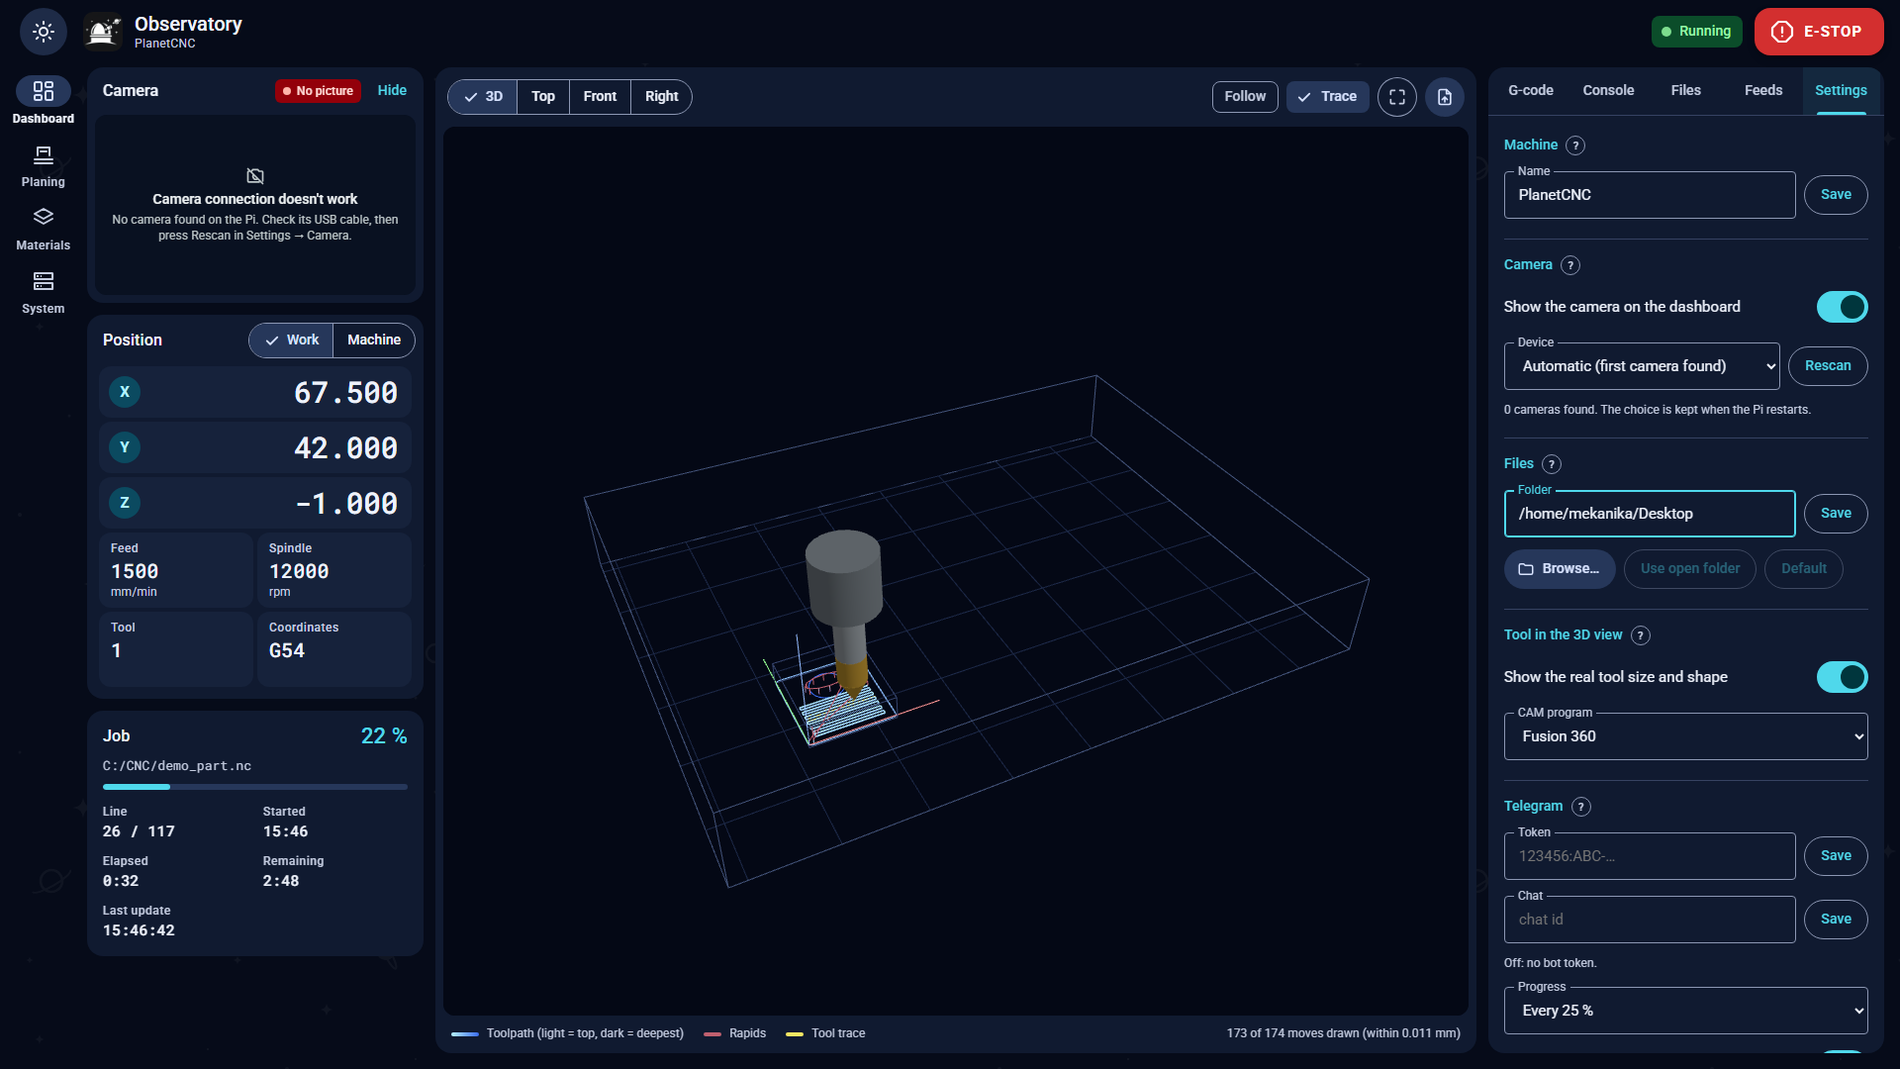
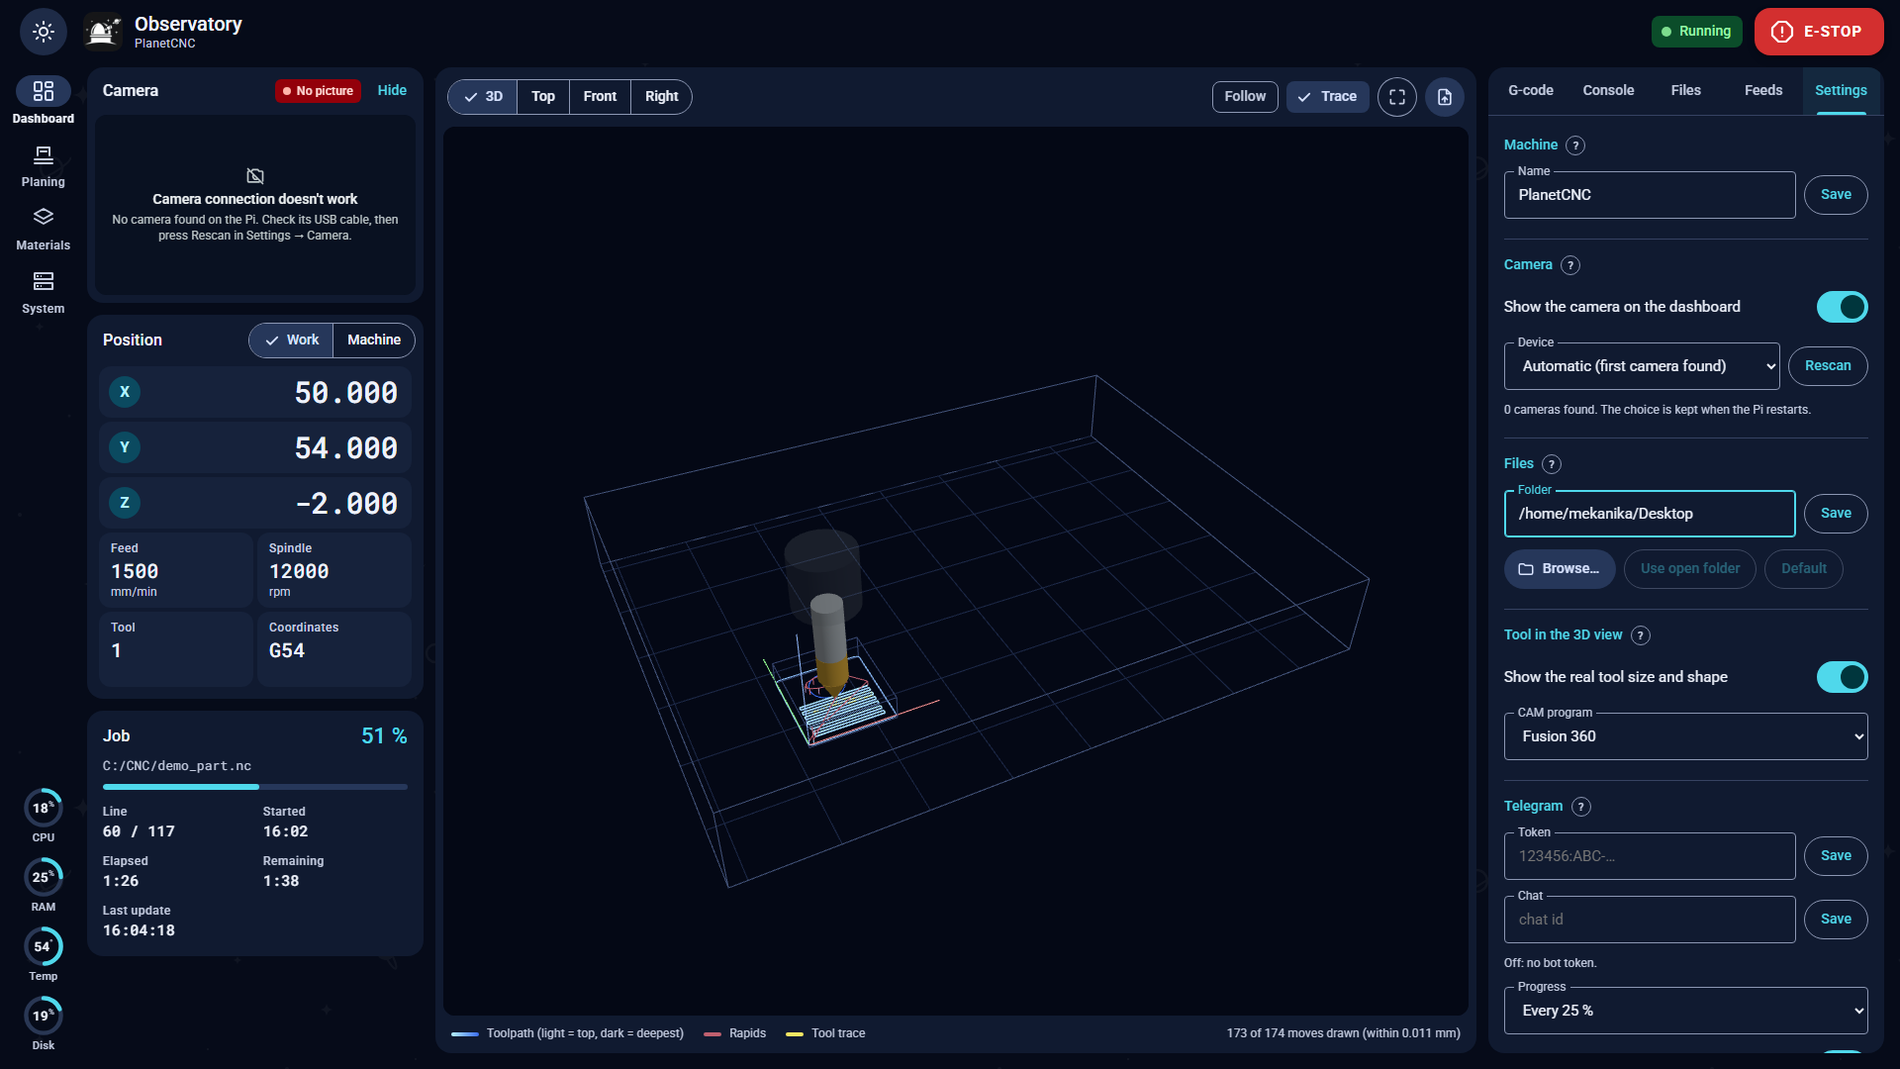
Raspberry Pi health as rings in the menu, on every page
CPU, memory, temperature and disk are four rings at the bottom of the
menu, so they are always in view without scrolling, on every page. They
turn amber or red at the same levels as before (hover for the details);
a lightning mark shows under-voltage or throttling; a click opens the
System page. topbar-boot.js draws them from the last values, so they
don't blink when moving between pages; nav.js fills them in.

On a phone, where the menu is the bar at the bottom, the dashboard's
Raspberry Pi card shows the same rings; on larger screens that card is
gone. The demo shows made-up Pi values, so the rings can be seen off a
Pi. README and screenshots updated.

diff --git a/web/nav.js b/web/nav.js
@@ -1,8 +1,10 @@
-// The top bar's live parts, the same on every page. The menu itself is drawn by topbar-boot.js
-// while the page loads; this keeps the update dot and the machine name current, and remembers
-// what the top bar shows (sessionStorage) so the next page starts with the same picture.
+// The top bar's and the menu's live parts, the same on every page. The menu itself is drawn by
+// topbar-boot.js while the page loads; this keeps the update dot, the machine name and the
+// Raspberry Pi's health rings current, and remembers what they show (sessionStorage) so the next
+// page starts with the same picture.
 
 const nav = document.getElementById('pagenav');
+const GB = 1024 ** 3;
 
 /** Remember part of the top bar for the next page (see topbar-boot.js). */
 export function saveTopbar(patch) {
@@ -12,12 +14,76 @@ export function saveTopbar(patch) {
   } catch { /* no storage: the next page just starts plain */ }
 }
 
-/** Show on the System item whether updates are waiting, and the machine's name (from /api/state). */
+/** The Pi's health (state.system) as rings: CPU, memory, temperature, disk, each with the level
+ *  it warns at (amber) and at which it is bad (red), and the power flags from the Pi's firmware. */
+export function piHealth(sys) {
+  if (!sys) return null;
+  const ring = (key, label, frac, value, unit, tip, warnAt, errAt, warnWord, errWord) => {
+    if (frac == null || Number.isNaN(frac)) return null;
+    const level = frac >= errAt ? 'err' : frac >= warnAt ? 'warn' : '';
+    return { key, label, frac, value, unit, level, tip: tip + (level ? ` – ${level === 'err' ? errWord : warnWord}` : '') };
+  };
+  const gb = (used, total) => `${(used / GB).toFixed(1)} of ${(total / GB).toFixed(1)} GB`;
+  const gauges = [
+    sys.cpu == null ? null
+      : ring('cpu', 'CPU', sys.cpu / 100, Math.round(sys.cpu), '%', `CPU ${Math.round(sys.cpu)} %`, 0.8, 0.95, 'busy', 'busy'),
+    !sys.mem_total ? null
+      : ring('mem', 'RAM', sys.mem_used / sys.mem_total, Math.round(100 * sys.mem_used / sys.mem_total), '%',
+        `Memory ${gb(sys.mem_used, sys.mem_total)}`, 0.85, 0.95, 'high', 'full'),
+    // The ring spans 20–90 °C; the Pi slows itself down from about 80 °C.
+    sys.temp == null ? null
+      : ring('temp', 'Temp', (sys.temp - 20) / 70, Math.round(sys.temp), '°', `Temperature ${Math.round(sys.temp)} °C`,
+        (70 - 20) / 70, (80 - 20) / 70, 'warm', 'hot'),
+    !sys.disk_total ? null
+      : ring('disk', 'Disk', sys.disk_used / sys.disk_total, Math.round(100 * sys.disk_used / sys.disk_total), '%',
+        `Disk ${gb(sys.disk_used, sys.disk_total)}`, 0.85, 0.95, 'high', 'full'),
+  ].filter(Boolean);
+  // vcgencmd get_throttled bits: 0 under-voltage, 1 frequency capped, 2 throttled, 3 soft temp limit;
+  // bits 16-19 = the same "has happened since boot".
+  const t = sys.throttled;
+  const power = t == null ? null
+    : t & 0x1 ? { level: 'err', text: 'Under-voltage!' }
+    : t & 0x6 ? { level: 'warn', text: 'Throttled' }
+    : t & 0x8 ? { level: 'warn', text: 'Temperature limit' }
+    : t & 0x10000 ? { level: 'warn', text: 'Under-voltage since boot' }
+    : t & 0xE0000 ? { level: 'warn', text: 'Throttled since boot' }
+    : { level: '', text: 'Power OK' };
+  let up = '';
+  if (sys.uptime != null) {
+    const d = Math.floor(sys.uptime / 86400), h = Math.floor((sys.uptime % 86400) / 3600), m = Math.floor((sys.uptime % 3600) / 60);
+    up = 'Up ' + (d ? `${d} d ${h} h` : h ? `${h} h ${m} min` : `${m} min`);
+  }
+  return { gauges, power, up, throttled: t };
+}
+
+/** The Pi rings everywhere they are, and the dashboard's Pi card (shown on a phone only). */
+function renderPi(pi) {
+  window.piGauges?.(pi);
+  const card = document.getElementById('sys');
+  if (card) {
+    card.hidden = !pi;
+    if (pi) {
+      document.getElementById('sysUptime').textContent = pi.up;
+      const power = document.getElementById('sysPower');
+      power.hidden = !pi.power;
+      if (pi.power) {
+        power.dataset.level = pi.power.level;
+        power.textContent = pi.power.text;
+        power.title = 'vcgencmd get_throttled = 0x' + pi.throttled.toString(16);
+      }
+    }
+  }
+  saveTopbar({ pi });
+}
+
+/** Show on the System item whether updates are waiting, the machine's name and the Pi's health
+ *  (from /api/state). */
 export function navOnState(s) {
   if (s?.machine_name) {
     const el = document.getElementById('machineName');
     if (el) el.textContent = s.machine_name;
   }
+  if (s && 'system' in s) renderPi(piHealth(s.system));
   const link = nav?.querySelector('[data-nav=system]');
   if (!link || !s) return;
   const appN = s.update?.behind || 0, osN = s.os_updates || 0;
@@ -25,13 +91,13 @@ export function navOnState(s) {
   const parts = [];
   if (appN) parts.push(`app update available (${appN} change${appN === 1 ? '' : 's'})`);
   if (osN) parts.push(`${osN} OS package update${osN === 1 ? '' : 's'}`);
-  link.title = 'Versions, updates, reboot' + (parts.length ? ' – ' + parts.join(', ') : '');
+  link.title = 'Versions, updates, the Raspberry Pi' + (parts.length ? ' – ' + parts.join(', ') : '');
   saveTopbar({ dot: !!(appN || osN), ...(s.machine_name ? { name: s.machine_name } : {}) });
 }
 
 /** For pages without the dashboard's live connection: fetch the machine state every second
  *  (every 5 s while the page is hidden) and pass it on; an empty state when the server is
- *  unreachable, so the status shows OFFLINE and the E-stop can't be pressed from here. */
+ *  unreachable, so the status shows Offline and the E-stop can't be pressed from here. */
 export function followState(onState, page) {
   const tick = async () => {
     let s = {};

diff --git a/web/style.css b/web/style.css
@@ -364,17 +364,30 @@ input.bad { border-color: var(--md-error) !important; box-shadow: inset 0 0 0 1p
 .sys-power::before { content: ""; width: 8px; height: 8px; border-radius: 50%; background: var(--md-success); }
 .sys-power[data-level="warn"]::before { background: var(--md-warning); }
 .sys-power[data-level="err"]::before { background: var(--md-error); }
-.sys-grid { display: grid; grid-template-columns: 1fr 1fr; gap: 12px 20px; }
-.sys-row { display: grid; grid-template-columns: auto 1fr; gap: 6px 6px; align-items: baseline; font-size: 12px; line-height: 16px; min-width: 0; }
-.sys-row .lbl { font-weight: 500; color: var(--md-on-surface-variant); }
-.sys-row .v { font: 500 12px var(--mono); text-align: right; white-space: nowrap; overflow: hidden; text-overflow: ellipsis; font-variant-numeric: tabular-nums; }
-.sys-row .meter { grid-column: 1 / -1; }
-.meter { height: 4px; border-radius: 2px; background: var(--md-surface-container-highest); overflow: hidden; }
-.meter i { display: block; height: 100%; width: 0; border-radius: 2px; background: var(--md-primary); transition: width .4s; }
-.sys-row[data-level="warn"] .meter i { background: var(--md-warning); }
-.sys-row[data-level="err"] .meter i { background: var(--md-error); }
-.sys-row[data-level="warn"] .v { color: var(--md-warning); }
-.sys-row[data-level="err"] .v { color: var(--md-error); }
+/* The dashboard's Pi card: on a phone only (on a larger screen the rings are in the menu) */
+@media (min-width: 701px) { #sys { display: none !important; } }
+
+/* The Raspberry Pi's health as rings (topbar-boot.js draws them, nav.js fills them in) */
+.pi-gauges { display: flex; flex-direction: column; align-items: center; gap: 10px; text-decoration: none; color: inherit; }
+.rail .pi-gauges { margin-top: auto; padding: 10px 0 4px; border-radius: 16px; width: 72px; }
+.rail .pi-gauges:hover { background: color-mix(in srgb, var(--md-on-surface) 6%, transparent); }
+.pi-gauges.row { flex-direction: row; justify-content: space-around; }
+.gauge { position: relative; display: flex; flex-direction: column; align-items: center; gap: 2px; }
+.gauge svg { width: 44px; height: 44px; transform: rotate(-90deg); fill: none; stroke-width: 4; }
+.gauge .g-track { stroke: var(--md-surface-container-highest); }
+.gauge .g-val { stroke: var(--md-primary); stroke-linecap: round; transition: stroke-dasharray .4s; }
+.gauge[data-level="warn"] .g-val { stroke: var(--md-warning); }
+.gauge[data-level="err"] .g-val { stroke: var(--md-error); }
+.gauge b { position: absolute; top: 0; left: 0; width: 44px; height: 44px; display: flex; align-items: center;
+           justify-content: center; font: 600 13px/1 var(--mono); font-variant-numeric: tabular-nums; }
+.gauge b small { align-self: flex-start; margin-top: 14px; font: 500 8px/1 var(--font); color: var(--md-on-surface-variant); }
+.gauge[data-level="warn"] b { color: var(--md-warning); }
+.gauge[data-level="err"] b { color: var(--md-error); }
+.gauge > span { font-size: 11px; line-height: 14px; font-weight: 500; letter-spacing: .3px; color: var(--md-on-surface-variant); }
+.pi-power { display: grid; place-items: center; width: 28px; height: 28px; border-radius: 50%;
+            background: var(--md-warning-container); color: var(--md-on-warning-container); }
+.pi-power[data-level="err"] { background: var(--md-error-container); color: var(--md-on-error-container); animation: blink 1s steps(2) infinite; }
+.pi-power svg { width: 16px; height: 16px; fill: currentColor; }
 
 /* ---------- 3D view ---------- */
 .view-panel { position: relative; }
@@ -825,6 +838,8 @@ table.mt { border-collapse: separate; border-spacing: 0 4px; width: 100%; min-wi
           flex-direction: row; justify-content: space-around; gap: 0; background: var(--md-surface-container); }
   .pagelink { flex: 1; width: auto; justify-content: center; }
   .pagelink .ind { width: 64px; }
+  .rail .pi-gauges { display: none !important; }
+  .sys { gap: 8px; }
   .page { padding: 4px 12px 16px; overflow: visible; }
   .layout, .pl-layout { display: flex; flex-direction: column; padding: 4px 12px 16px; }
   .pl-view { height: 66vh; min-height: 340px; flex: none; }

diff --git a/web/topbar-boot.js b/web/topbar-boot.js
@@ -28,8 +28,44 @@
         + (on ? ' aria-current="page"' : '') + '><span class="ind"><svg viewBox="0 0 24 24" aria-hidden="true"'
         + (FILLED[p[0]] ? ' class="fill"' : '') + '>' + ICON[p[0]] + '</svg>'
         + (p[0] === 'system' ? '<i class="nav-dot" hidden></i>' : '') + '</span><span>' + p[2] + '</span></a>';
-    }).join('');
+    }).join('')
+      // The Raspberry Pi's health at the bottom of the menu, on every page (filled by nav.js)
+      + '<a class="pi-gauges" href="/system" hidden></a>';
   }
+
+  // Ring gauges for the Pi's health, in every .pi-gauges box (the menu; the dashboard's Pi card
+  // on a phone). pi = {gauges: [{key, label, value, unit, frac, level, tip}], power: {level, text}}
+  // as nav.js makes it, or null to hide them. Shared with nav.js through window.
+  function esc(t) { return String(t).replace(/[&<>"]/g, function (c) { return { '&': '&amp;', '<': '&lt;', '>': '&gt;', '"': '&quot;' }[c]; }); }
+  window.piGauges = function (pi) {
+    var boxes = document.querySelectorAll('.pi-gauges');
+    for (var i = 0; i < boxes.length; i++) {
+      var box = boxes[i];
+      box.hidden = !pi || !pi.gauges.length;
+      if (box.hidden) continue;
+      var keys = pi.gauges.map(function (g) { return g.key; }).join(',');
+      if (box.getAttribute('data-keys') !== keys) {
+        box.setAttribute('data-keys', keys);
+        box.innerHTML = pi.gauges.map(function (g) {
+          return '<span class="gauge" data-g="' + g.key + '"><svg viewBox="0 0 40 40" aria-hidden="true">'
+            + '<circle class="g-track" cx="20" cy="20" r="16"/><circle class="g-val" cx="20" cy="20" r="16" pathLength="100"/></svg>'
+            + '<b></b><span>' + esc(g.label) + '</span></span>';
+        }).join('') + '<span class="pi-power" hidden><svg viewBox="0 0 24 24" aria-hidden="true"><path d="M13 2 4 14h7l-1 8 9-12h-7z"/></svg></span>';
+      }
+      for (var k = 0; k < pi.gauges.length; k++) {
+        var g = pi.gauges[k], el = box.querySelector('[data-g="' + g.key + '"]');
+        el.setAttribute('data-level', g.level);
+        el.title = g.tip;
+        el.querySelector('.g-val').setAttribute('stroke-dasharray', Math.round(Math.max(0, Math.min(1, g.frac)) * 100) + ' 100');
+        el.querySelector('b').innerHTML = esc(g.value) + '<small>' + esc(g.unit) + '</small>';
+      }
+      var pw = box.querySelector('.pi-power');
+      pw.hidden = !pi.power || !pi.power.level;
+      if (pi.power) { pw.setAttribute('data-level', pi.power.level); pw.title = pi.power.text; }
+      box.title = 'Raspberry Pi' + (pi.up ? ' · ' + pi.up : '') + (pi.power && pi.power.level ? ' · ' + pi.power.text : '')
+        + (box.tagName === 'A' ? ' – open the System page' : '');
+    }
+  };
 
   // Day / night
   var root = document.documentElement;
@@ -60,6 +96,7 @@
   if (st && c.status) { st.setAttribute('data-state', c.status[0]); st.textContent = c.status[1]; }
   var dot = nav && nav.querySelector('.nav-dot');
   if (dot) dot.hidden = !c.dot;
+  if (c.pi) window.piGauges(c.pi);
   if (c.estop) {
     // As last shown. Pressing it before this page's first update just asks the server, which
     // refuses when TNG isn't connected - the E-stop only ever switches TNG's E-stop on.

diff --git a/web/app.js b/web/app.js
@@ -473,7 +473,6 @@ function onState(s) {
   renderInfo();
   filesUpdate(s);
   tuneSync(s);
-  renderSystem(s.system);
   consoleUpdate(s.console_seq);
   systemOnState(s);
   navOnState(s);
@@ -1212,58 +1211,6 @@ $('logDebug').addEventListener('change', async (e) => {
   }
   logsLoad();
 });
-
-// ---------------------------------------------------------------- Raspberry Pi health
-
-const GB = 1024 ** 3;
-const fmtGB = (used, total) => `${(used / GB).toFixed(1)}/${(total / GB).toFixed(1)} GB`;
-
-/** Fill one meter row. The word next to the value repeats the warning, so it never relies on color alone. */
-function sysRow(id, frac, text, warnAt, errAt, warnWord, errWord) {
-  const row = $(id);
-  row.hidden = frac == null;
-  if (frac == null) return;
-  const level = frac >= errAt ? 'err' : frac >= warnAt ? 'warn' : '';
-  row.dataset.level = level;
-  row.querySelector('.meter i').style.width = Math.max(0, Math.min(1, frac)) * 100 + '%';
-  const v = row.querySelector('.v');
-  v.textContent = v.title = text + (level === 'err' ? ' ' + errWord : level === 'warn' ? ' ' + warnWord : '');
-}
-
-function renderSystem(sys) {
-  $('sys').hidden = !sys;
-  if (!sys) return;
-  sysRow('sysCpuRow', sys.cpu == null ? null : sys.cpu / 100,
-    sys.cpu == null ? '' : Math.round(sys.cpu) + ' %', 0.8, 0.95, 'busy', 'busy');
-  sysRow('sysMemRow', sys.mem_total ? sys.mem_used / sys.mem_total : null,
-    sys.mem_total ? fmtGB(sys.mem_used, sys.mem_total) : '', 0.85, 0.95, 'high', 'full');
-  // Temperature bar spans 20–90 °C; the Pi slows itself down from about 80 °C.
-  sysRow('sysTempRow', sys.temp == null ? null : (sys.temp - 20) / 70,
-    sys.temp == null ? '' : Math.round(sys.temp) + ' °C', (70 - 20) / 70, (80 - 20) / 70, 'warm', 'hot');
-  sysRow('sysDiskRow', sys.disk_total ? sys.disk_used / sys.disk_total : null,
-    sys.disk_total ? fmtGB(sys.disk_used, sys.disk_total) : '', 0.85, 0.95, 'high', 'full');
-
-  // vcgencmd get_throttled bits: 0 under-voltage, 1 frequency capped, 2 throttled, 3 soft temp limit;
-  // bits 16-19 = the same "has happened since boot".
-  const t = sys.throttled;
-  const power = $('sysPower');
-  power.hidden = t == null;
-  if (t != null) {
-    const [level, text] = t & 0x1 ? ['err', 'Under-voltage!']
-      : t & 0x6 ? ['warn', 'Throttled']
-      : t & 0x8 ? ['warn', 'Temperature limit']
-      : t & 0x10000 ? ['warn', 'Under-voltage since boot']
-      : t & 0xE0000 ? ['warn', 'Throttled since boot']
-      : ['', 'Power OK'];
-    power.dataset.level = level;
-    power.textContent = text;
-    power.title = 'vcgencmd get_throttled = 0x' + t.toString(16);
-  }
-  if (sys.uptime != null) {
-    const d = Math.floor(sys.uptime / 86400), h = Math.floor((sys.uptime % 86400) / 3600), m = Math.floor((sys.uptime % 3600) / 60);
-    $('sysUptime').textContent = 'Up ' + (d ? `${d} d ${h} h` : h ? `${h} h ${m} min` : `${m} min`);
-  }
-}
 
 // ---------------------------------------------------------------- connection to the server
 

diff --git a/web/index.html b/web/index.html
@@ -83,12 +83,7 @@
 
     <section class="card sys" id="sys" hidden aria-label="Raspberry Pi">
       <div class="sys-head"><h2>Raspberry Pi</h2><span class="sys-up" id="sysUptime"></span><span class="sys-power" id="sysPower" hidden></span></div>
-      <div class="sys-grid">
-        <div class="sys-row" id="sysCpuRow"><span class="lbl">CPU</span><b class="v"></b><span class="meter"><i></i></span></div>
-        <div class="sys-row" id="sysMemRow"><span class="lbl">RAM</span><b class="v"></b><span class="meter"><i></i></span></div>
-        <div class="sys-row" id="sysTempRow"><span class="lbl">Temperature</span><b class="v"></b><span class="meter"><i></i></span></div>
-        <div class="sys-row" id="sysDiskRow"><span class="lbl">Disk</span><b class="v"></b><span class="meter"><i></i></span></div>
-      </div>
+      <div class="pi-gauges row"></div>
     </section>
   </div>
 

diff --git a/server.py b/server.py
@@ -912,6 +912,21 @@ UPDATE_CHECK_EVERY = 6 * 3600
 UPDATES_OFF_REASON = "updates are not available"
 
 
+
+class DemoStats:
+    """--demo on a computer that isn't a Pi: made-up Pi health, so the rings have something to show."""
+
+    def __init__(self):
+        self.started = time.time() - 2 * 86400 - 7 * 3600
+
+    @property
+    def latest(self):
+        t = time.time()
+        gb = 1024 ** 3
+        return {"cpu": 18 + 8 * math.sin(t / 7), "mem_total": 8 * gb, "mem_used": int((1.9 + 0.1 * math.sin(t / 30)) * gb),
+                "temp": 52 + 3 * math.sin(t / 20), "disk_total": 58 * gb, "disk_used": 11 * gb,
+                "uptime": t - self.started, "throttled": 0}
+
 class Updater:
     def __init__(self):
         self.lock = threading.Lock()
@@ -3371,6 +3386,8 @@ def main():
     NOTIFY = Notifier()
 
     if args.demo:
+        if not SYSTEM:
+            SYSTEM = DemoStats()
         threading.Thread(target=run_demo, daemon=True).start()
         threading.Thread(target=demo_commands, daemon=True).start()
 

diff --git a/README.md b/README.md
@@ -35,7 +35,8 @@ the right.*
 - Live position of every axis (X, Y, Z, plus A, B, C when used), in work or
   machine coordinates, updated 5 times a second.
 - Feed rate, spindle speed, tool number and coordinate system.
-- Status at a glance: running, paused, E-stop, idle or offline.
+- Status at a glance: running, paused, E-stop, idle or offline; the Pi's
+  CPU, memory, temperature and disk as rings in the menu, on every page.
 - A software **E-stop** button, always in view. It is the only thing the
   dashboard can make the machine do; it only switches E-stop on, and releasing
   it happens at the machine.
@@ -138,8 +139,8 @@ the right.*
 
 These were taken with the built-in demo (`python3 server.py --demo`), which
 simulates a job. The demo has no camera and doesn't run on a Pi, so the camera
-card says why it has no picture and the Raspberry Pi card is missing; on the
-real machine the Pi card sits under the job (see the animation above).
+card says why it has no picture, and the Raspberry Pi's health rings show
+made-up values.
 
 ### Desktop
 
@@ -518,14 +519,24 @@ command in TNG. TNG stops the machine at once.
 - **Job:** the loaded file, the progress (percentage and bar), the **line**, **start time, elapsed time** (since the job started, pauses
   included), **time remaining** (TNG's own estimate when it has one) and the
   time of the last update. The console also says how long a job took when it ends.
-- **Raspberry Pi** (on the Pi only): CPU, memory, temperature and disk use, refreshed every 2
-  seconds, plus uptime.
-  - A bar and its value turn amber or red, with a word (busy, high, warm, hot, full), when a
-    value gets high. The Pi slows itself down from about 80 °C.
-  - Next to the title is the power status from the Pi's firmware:
-    **Under-voltage!** means the power supply is too weak right now, and
-    "since boot" means it happened earlier. A weak supply is a common cause of
-    random Pi problems.
+- On a phone, the **Raspberry Pi** card: the Pi's health rings (see below),
+  its uptime and its power status.
+
+### Raspberry Pi health
+
+At the bottom of the menu, on every page, four rings show the Pi's **CPU**,
+**memory** (RAM), **temperature** and **disk** use, refreshed every 2 seconds.
+On a phone they are in the dashboard's Raspberry Pi card instead.
+
+- A ring and its value turn amber or red when a value gets high; hover over a
+  ring for the details and the word (busy, high, warm, hot, full). The
+  temperature ring spans 20 to 90 °C: the Pi slows itself down from about
+  80 °C.
+- A lightning mark under the rings is the power status from the Pi's
+  firmware: amber when the Pi was short of power or throttled earlier, red and
+  blinking for **Under-voltage!** right now. A weak supply is a common cause of
+  random Pi problems.
+- A click on the rings opens the [System page](#system-page).
 
 ### 3D view (middle)
 
